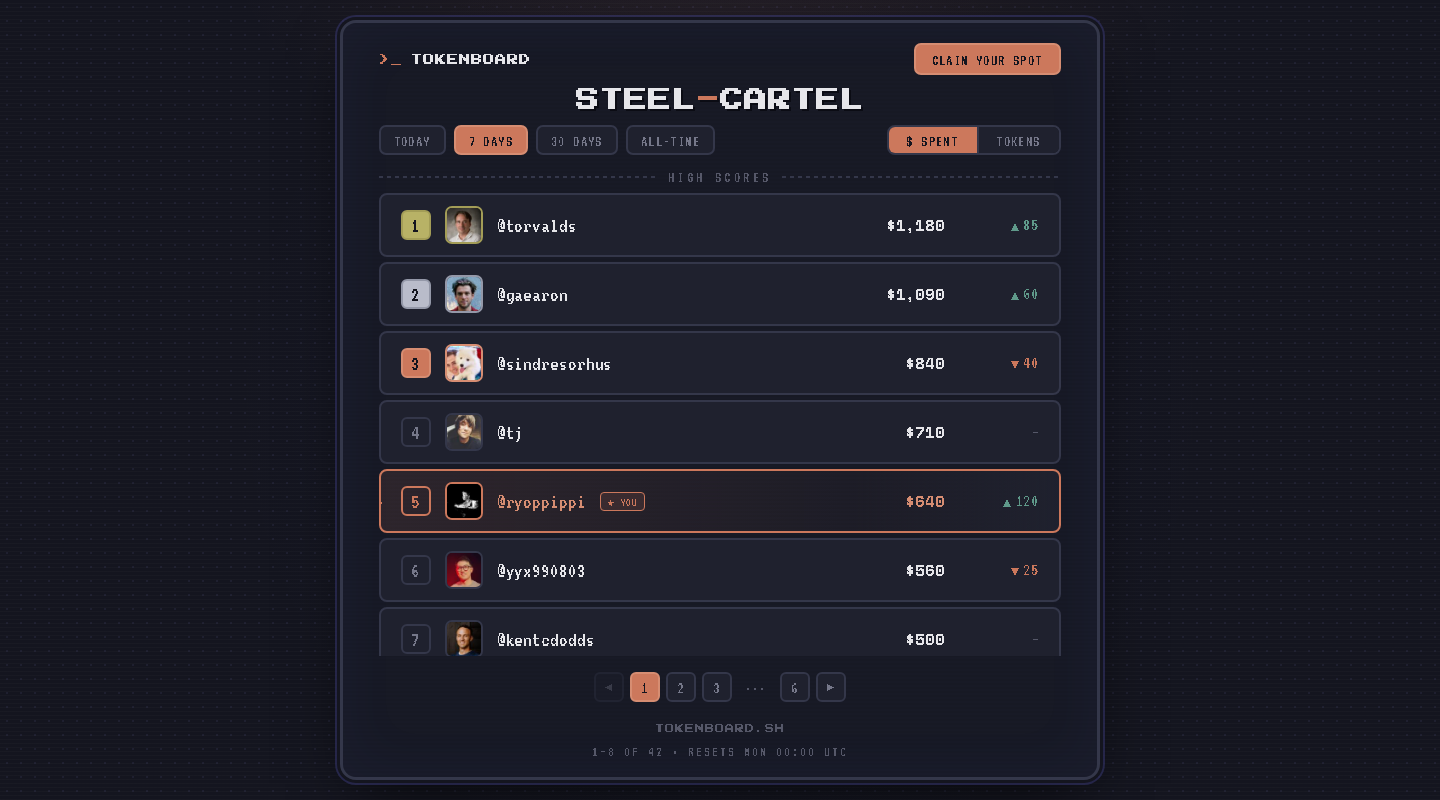
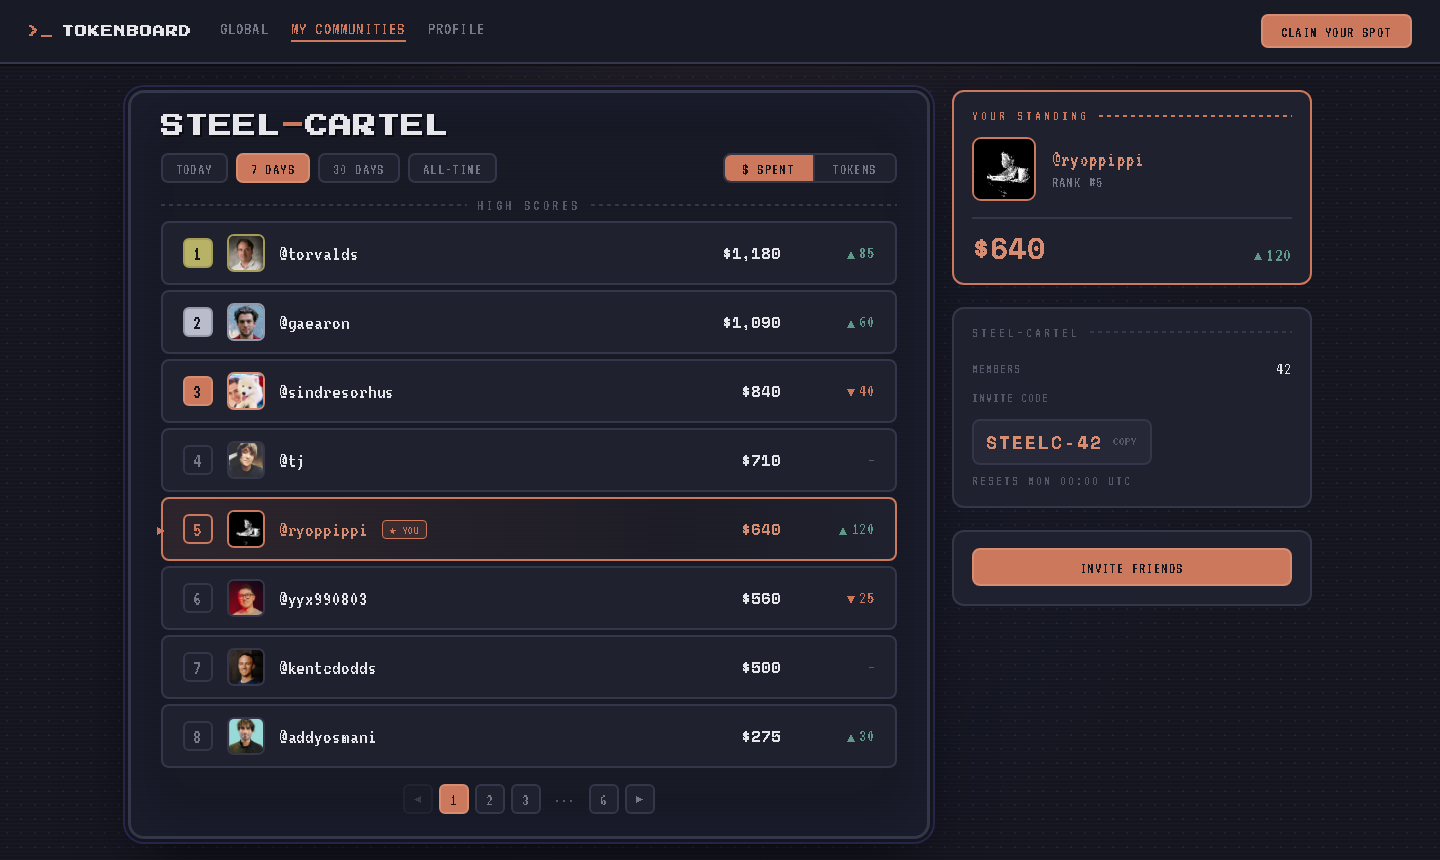
feat(design): desktop app-shell layout for pixel variant
Fix the 'floating mobile card' feel: full-width top app bar (wordmark +
nav + Claim), 2-col content (leaderboard left, side rail right with YOUR
STANDING card, community/invite panel). Drop TOKENBOARD.SH from footer.
Preserves palette, fonts, rows, $/tokens toggle, @user links, ELO deltas.

diff --git a/prototypes/dashboard-pixel/index.html b/prototypes/dashboard-pixel/index.html
@@ -48,9 +48,8 @@
     color: var(--ink);
     font-family: var(--term);
     display: flex;
-    align-items: center;          /* center the card vertically */
-    justify-content: center;
-    padding: 20px 32px;
+    flex-direction: column;       /* app shell: bar, content, footer stacked */
+    align-items: stretch;
     /* faint dotted-grid + scanline texture + corner glow */
     background-image:
       radial-gradient(720px 420px at 50% -10%, rgba(204,120,92,0.10), transparent 70%),
@@ -61,16 +60,62 @@
     background-attachment: fixed;
   }
 
-  /* ───────── the arcade card ───────── */
+  /* ───────── full-width top app bar ───────── */
+  .appbar {
+    display: flex; align-items: center; gap: 28px;
+    width: 100%;
+    background: var(--bg-2);
+    border-bottom: 2px solid var(--frame);
+    padding: 14px 28px;
+    box-shadow: 0 2px 0 rgba(0,0,0,0.35);
+    position: sticky; top: 0; z-index: 10;
+  }
+  .wordmark {
+    font-family: var(--pixel); font-size: 12px; letter-spacing: 1px;
+    color: var(--ink); display: flex; align-items: center; gap: 8px;
+    flex: none;
+  }
+  .wordmark .coin {
+    color: var(--coral); font-family: var(--pixel); font-size: 12px;
+    text-shadow: 0 0 8px var(--coral-glow);
+  }
+  /* primary nav */
+  .nav {
+    display: flex; align-items: center; gap: 22px;
+  }
+  .nav a {
+    font-family: var(--term); font-size: 18px; letter-spacing: 1px;
+    text-transform: uppercase; color: var(--ink-3);
+    text-decoration: none; line-height: 1; padding-bottom: 2px;
+    border-bottom: 2px solid transparent; transition: color .12s steps(2);
+  }
+  .nav a:hover { color: var(--ink); }
+  .nav a.active { color: var(--coral); border-bottom-color: var(--coral); }
+  .appbar .spacer { flex: 1 1 auto; }
+
+  /* ───────── centered content area ───────── */
+  .shell {
+    width: 100%;
+    max-width: 1240px;
+    margin: 0 auto;
+    flex: 1 1 auto;
+    padding: 26px 28px 8px;
+  }
+  .layout {
+    display: grid;
+    grid-template-columns: minmax(0, 1fr) 360px;
+    gap: 22px;
+    align-items: start;
+  }
+
+  /* the arcade card — now the main (left) leaderboard panel */
   .card {
     width: 100%;
-    max-width: 760px;
-    max-height: calc(100vh - 40px);   /* never taller than the viewport */
     display: flex; flex-direction: column;
     background: var(--bg-2);
     border: 3px solid var(--frame);
     border-radius: 16px;
-    padding: 20px 36px 18px;
+    padding: 20px 30px 18px;
     position: relative;
     box-shadow:
       0 0 0 3px var(--bg),
@@ -79,8 +124,6 @@
       inset 0 0 60px rgba(91,107,223,0.06);
     image-rendering: pixelated;
   }
-  /* board scrolls internally; header + controls + pager stay pinned */
-  .board { flex: 1 1 auto; min-height: 0; overflow-y: auto; }
   /* inner scanlines on the card itself */
   .card::after {
     content:""; position:absolute; inset:0; pointer-events:none; border-radius:13px;
@@ -89,26 +132,8 @@
   }
   .card > * { position: relative; z-index: 1; }
 
-  /* ───────── top brand row ───────── */
-  .brandrow {
-    display: flex; align-items: center; justify-content: space-between;
-    margin-bottom: 10px;
-  }
-  .wordmark {
-    font-family: var(--pixel); font-size: 11px; letter-spacing: 1px;
-    color: var(--ink); display: flex; align-items: center; gap: 8px;
-  }
-  .wordmark .coin {
-    color: var(--coral); font-family: var(--pixel); font-size: 11px;
-    text-shadow: 0 0 8px var(--coral-glow);
-  }
-  .insert-coin {
-    font-family: var(--term); font-size: 17px; letter-spacing: 1px;
-    color: var(--ink-4); text-transform: uppercase;
-  }
-
-  /* ───────── header block (centered) ───────── */
-  .head { text-align: center; padding: 2px 0 10px; }
+  /* ───────── header block (left-aligned in the main column) ───────── */
+  .head { text-align: left; padding: 0 0 12px; }
   .title {
     font-family: var(--pixel); font-size: 23px; line-height: 1.15;
     letter-spacing: 1px; color: var(--ink);
@@ -293,30 +318,136 @@
   .pager .pg.nav:disabled { opacity: .35; cursor: default; }
   .pager .ellip { border: none; background: none; color: var(--ink-4); cursor: default; min-width: auto; }
 
-  /* ───────── claim button (compact, top-right) ───────── */
+  /* ───────── claim button (in the app bar, right) ───────── */
   .claim {
     font-family: var(--term); font-size: 16px; letter-spacing: 1px;
     text-transform: uppercase; color: #14151f;
     background: var(--coral); border: 2px solid var(--coral-hi);
-    border-radius: 7px; padding: 7px 16px 5px; cursor: pointer;
-    transition: all .1s steps(2); line-height: 1;
+    border-radius: 7px; padding: 8px 18px 6px; cursor: pointer;
+    transition: all .1s steps(2); line-height: 1; flex: none;
   }
   .claim:hover { background: var(--coral-hi); }
 
+  /* ───────── side rail ───────── */
+  .rail { display: flex; flex-direction: column; gap: 22px; }
+  .panel {
+    background: var(--panel);
+    border: 2px solid var(--frame);
+    border-radius: 12px;
+    padding: 16px 18px 18px;
+    position: relative;
+  }
+  .panel .phead {
+    font-family: var(--term); font-size: 15px; letter-spacing: 3px;
+    text-transform: uppercase; color: var(--ink-4);
+    display: flex; align-items: center; gap: 10px; margin-bottom: 14px;
+  }
+  .panel .phead::after {
+    content:""; flex:1; height:2px;
+    background: repeating-linear-gradient(90deg, var(--frame) 0 4px, transparent 4px 8px);
+  }
+
+  /* YOUR STANDING — the YOU card */
+  .panel.you-panel { border-color: var(--coral); }
+  .panel.you-panel .phead { color: var(--coral); }
+  .panel.you-panel .phead::after {
+    background: repeating-linear-gradient(90deg, var(--coral) 0 4px, transparent 4px 8px);
+  }
+  .standing { display: flex; align-items: center; gap: 16px; }
+  .standing .pfp-lg {
+    width: 64px; height: 64px; border-radius: 9px;
+    border: 2px solid var(--coral); background: var(--panel-2);
+    object-fit: cover; image-rendering: auto; flex: none;
+  }
+  .standing .who { display: flex; flex-direction: column; gap: 4px; min-width: 0; }
+  .standing .who a {
+    font-family: var(--term); font-size: 22px; line-height: 1; letter-spacing: .5px;
+    color: var(--coral-hi); text-decoration: none;
+    white-space: nowrap; overflow: hidden; text-overflow: ellipsis;
+  }
+  .standing .who a:hover { text-decoration: underline; }
+  .standing .who .rank {
+    font-family: var(--term); font-size: 16px; letter-spacing: 1px;
+    text-transform: uppercase; color: var(--ink-3);
+  }
+  .standing-stats {
+    display: flex; align-items: baseline; justify-content: space-between;
+    gap: 12px; margin-top: 16px; padding-top: 14px;
+    border-top: 2px solid var(--frame);
+  }
+  .standing-stats .big {
+    font-family: var(--money); font-weight: 700; font-size: 30px; line-height: 1;
+    color: var(--coral-hi); font-variant-numeric: tabular-nums;
+  }
+  .standing-stats .elo {
+    margin: 0; min-width: auto; font-size: 20px;
+  }
+
+  /* community panel */
+  .meta-row {
+    display: flex; align-items: center; justify-content: space-between;
+    font-family: var(--term); font-size: 18px; letter-spacing: .5px;
+    color: var(--ink-2); padding: 6px 0;
+  }
+  .meta-row .k { color: var(--ink-4); text-transform: uppercase; letter-spacing: 1px; font-size: 15px; }
+  .meta-row .v { color: var(--ink); }
+  .invite-pill {
+    display: flex; align-items: center; justify-content: space-between; gap: 10px;
+    background: var(--panel-2); border: 2px solid var(--frame);
+    border-radius: 8px; padding: 8px 12px; margin: 8px 0 4px;
+    cursor: pointer; transition: border-color .12s;
+  }
+  .invite-pill:hover { border-color: var(--frame-hi); }
+  .invite-pill .code {
+    font-family: var(--money); font-weight: 700; font-size: 18px; letter-spacing: 2px;
+    color: var(--coral-hi);
+  }
+  .invite-pill .copy {
+    font-family: var(--term); font-size: 13px; letter-spacing: 1px;
+    text-transform: uppercase; color: var(--ink-4);
+  }
+  .reset-line {
+    font-family: var(--term); font-size: 15px; letter-spacing: 2px;
+    text-transform: uppercase; color: var(--ink-4); margin-top: 8px;
+  }
+  .invite-btn {
+    width: 100%; text-align: center;
+    font-family: var(--term); font-size: 16px; letter-spacing: 1px;
+    text-transform: uppercase; color: #14151f;
+    background: var(--coral); border: 2px solid var(--coral-hi);
+    border-radius: 8px; padding: 10px 16px 8px; cursor: pointer;
+    transition: all .1s steps(2); line-height: 1;
+  }
+  .invite-btn:hover { background: var(--coral-hi); }
+
   /* ───────── footer ───────── */
   .foot {
-    text-align: center; margin-top: 18px;
+    text-align: center; padding: 22px 28px 24px;
     font-family: var(--pixel); font-size: 9px; letter-spacing: 1px;
-    color: var(--ink-4);
+    color: var(--ink-4); border-top: 2px solid var(--frame); margin-top: 22px;
   }
   .foot .reset {
     font-family: var(--term); font-size: 15px; letter-spacing: 2px;
     text-transform: uppercase; color: var(--ink-4); margin-top: 11px;
   }
 
+  /* ───────── responsive ───────── */
+  @media (max-width: 900px) {
+    .layout { grid-template-columns: minmax(0, 1fr); }
+    .rail { flex-direction: row; flex-wrap: wrap; }
+    .rail > .panel { flex: 1 1 280px; }
+  }
+  @media (max-width: 620px) {
+    .appbar { flex-wrap: wrap; gap: 14px 20px; padding: 12px 18px; }
+    .nav { gap: 16px; order: 3; width: 100%; }
+    .appbar .spacer { display: none; }
+    .shell { padding: 18px 16px 8px; }
+    .card { padding: 18px 18px 16px; }
+    .rail { flex-direction: column; }
+  }
   @media (max-width: 480px) {
     .title { font-size: 21px; }
-    .wordmark { font-size: 9px; }
+    .wordmark { font-size: 10px; }
     .handle { font-size: 20px; }
     .tok { font-size: 20px; }
   }
@@ -324,13 +455,23 @@
 </head>
 <body>
 
-  <div class="card">
+  <!-- full-width top app bar -->
+  <header class="appbar">
+    <div class="wordmark"><span class="coin">&gt;_</span>TOKENBOARD</div>
+    <nav class="nav">
+      <a href="#">Global</a>
+      <a href="#" class="active">My Communities</a>
+      <a href="#">Profile</a>
+    </nav>
+    <div class="spacer"></div>
+    <button class="claim">Claim Your Spot</button>
+  </header>
 
-    <!-- brand row -->
-    <div class="brandrow">
-      <div class="wordmark"><span class="coin">&gt;_</span>TOKENBOARD</div>
-      <button class="claim">Claim Your Spot</button>
-    </div>
+  <!-- centered content area: leaderboard (left) + side rail (right) -->
+  <main class="shell">
+   <div class="layout">
+
+    <div class="card">
 
     <!-- header -->
     <div class="head">
@@ -458,13 +599,53 @@
       <button class="pg nav">&#9654;</button>
     </div>
 
-    <!-- footer -->
-    <div class="foot">
-      TOKENBOARD.SH
-      <div class="reset">1&ndash;8 of 42 &middot; Resets Mon 00:00 UTC</div>
-    </div>
+    </div><!-- /.card (main leaderboard) -->
 
-  </div>
+    <!-- ───────── side rail ───────── -->
+    <aside class="rail">
+
+      <!-- a. YOUR STANDING — the YOU card -->
+      <section class="panel you-panel">
+        <div class="phead">Your Standing</div>
+        <div class="standing">
+          <img class="pfp-lg" src="https://github.com/ryoppippi.png" alt="" loading="lazy" />
+          <div class="who">
+            <a href="https://github.com/ryoppippi" target="_blank" rel="noopener">@ryoppippi</a>
+            <span class="rank">Rank #5</span>
+          </div>
+        </div>
+        <div class="standing-stats">
+          <span class="big">$640</span>
+          <span class="elo up"><span class="ar">▲</span> 120</span>
+        </div>
+      </section>
+
+      <!-- b. STEEL-CARTEL community panel -->
+      <section class="panel">
+        <div class="phead">Steel-Cartel</div>
+        <div class="meta-row"><span class="k">Members</span><span class="v">42</span></div>
+        <div class="meta-row"><span class="k">Invite Code</span></div>
+        <button class="invite-pill" id="invitePill">
+          <span class="code">STEELC-42</span>
+          <span class="copy">Copy</span>
+        </button>
+        <div class="reset-line">Resets Mon 00:00 UTC</div>
+      </section>
+
+      <!-- c. INVITE FRIENDS -->
+      <section class="panel">
+        <button class="invite-btn">Invite Friends</button>
+      </section>
+
+    </aside>
+
+   </div><!-- /.layout -->
+  </main>
+
+  <!-- footer -->
+  <footer class="foot">
+    <div class="reset">1&ndash;8 of 42 &middot; Resets Mon 00:00 UTC</div>
+  </footer>
 
   <script>
     // tab toggle (cosmetic)
@@ -495,6 +676,28 @@
       });
     });
     renderMetric('usd');   // default = $ spent
+
+    // nav links (cosmetic active state)
+    document.querySelectorAll('.nav a').forEach(a => {
+      a.addEventListener('click', e => {
+        e.preventDefault();
+        document.querySelectorAll('.nav a').forEach(x => x.classList.remove('active'));
+        a.classList.add('active');
+      });
+    });
+
+    // invite code "copy" affordance
+    const pill = document.getElementById('invitePill');
+    if (pill) {
+      pill.addEventListener('click', () => {
+        const code = pill.querySelector('.code').textContent.trim();
+        const label = pill.querySelector('.copy');
+        const prev = label.textContent;
+        if (navigator.clipboard) navigator.clipboard.writeText(code).catch(() => {});
+        label.textContent = 'Copied';
+        setTimeout(() => { label.textContent = prev; }, 1200);
+      });
+    }
   </script>
 
 </body>